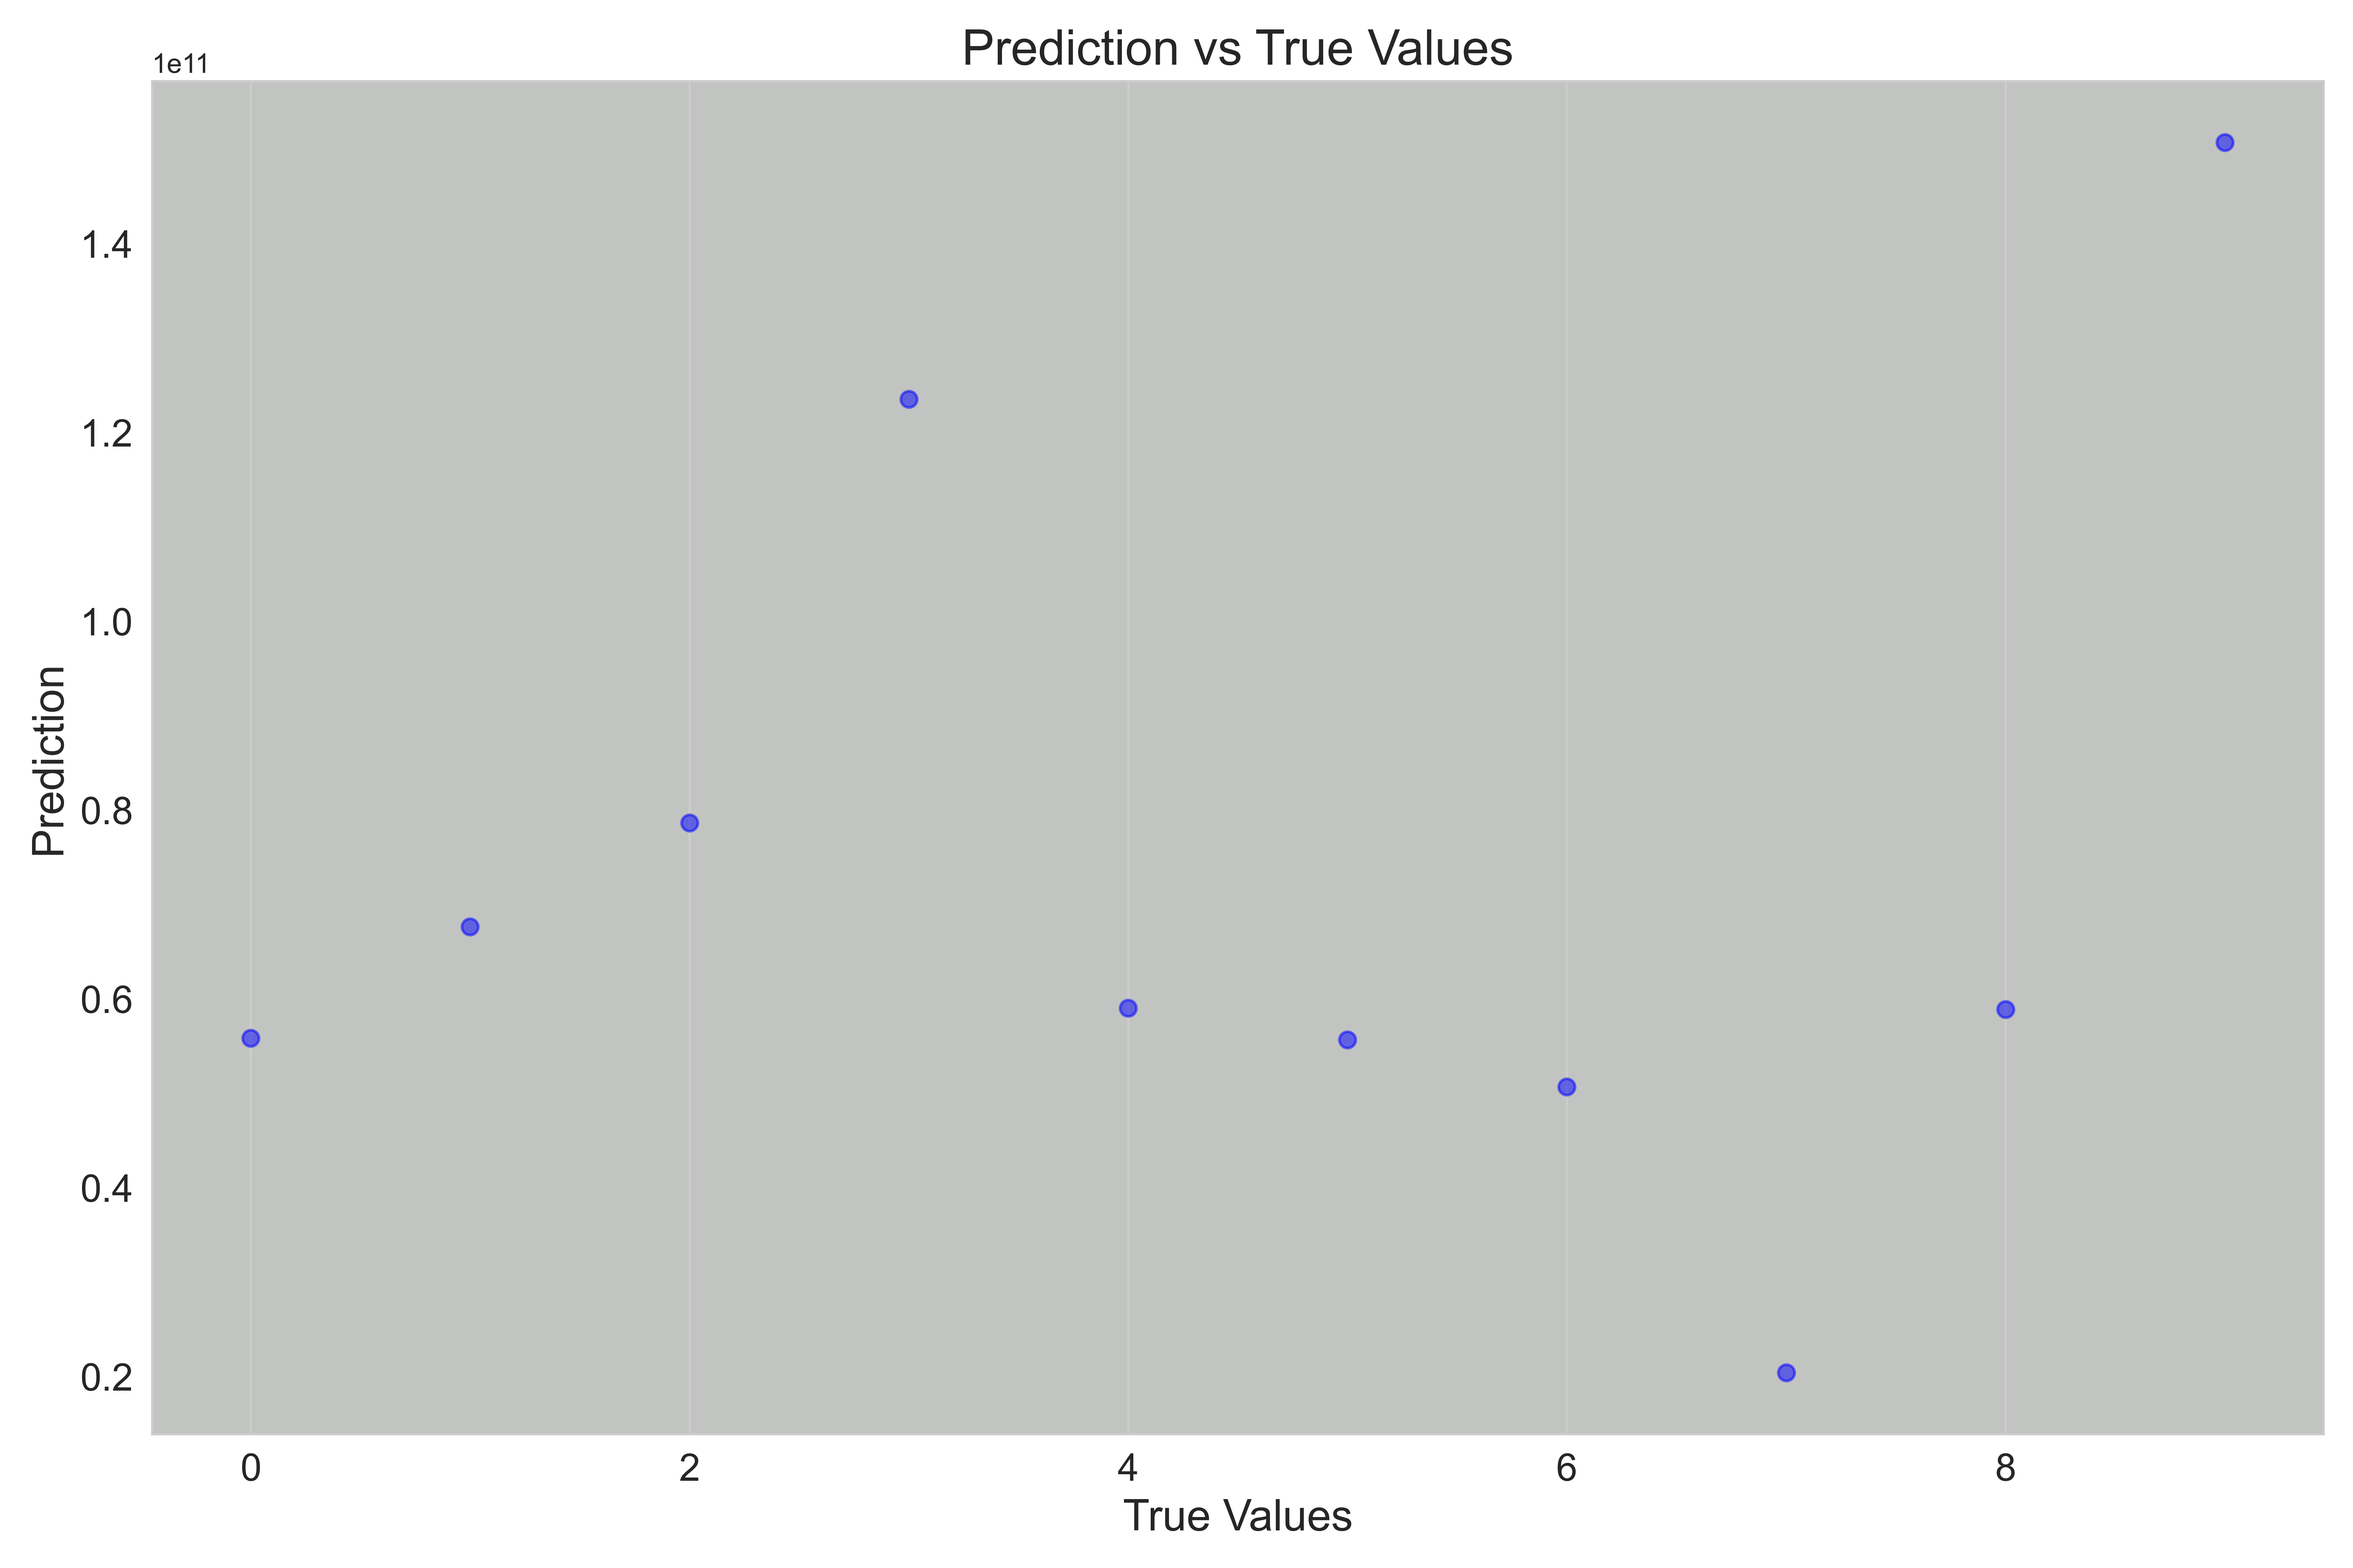
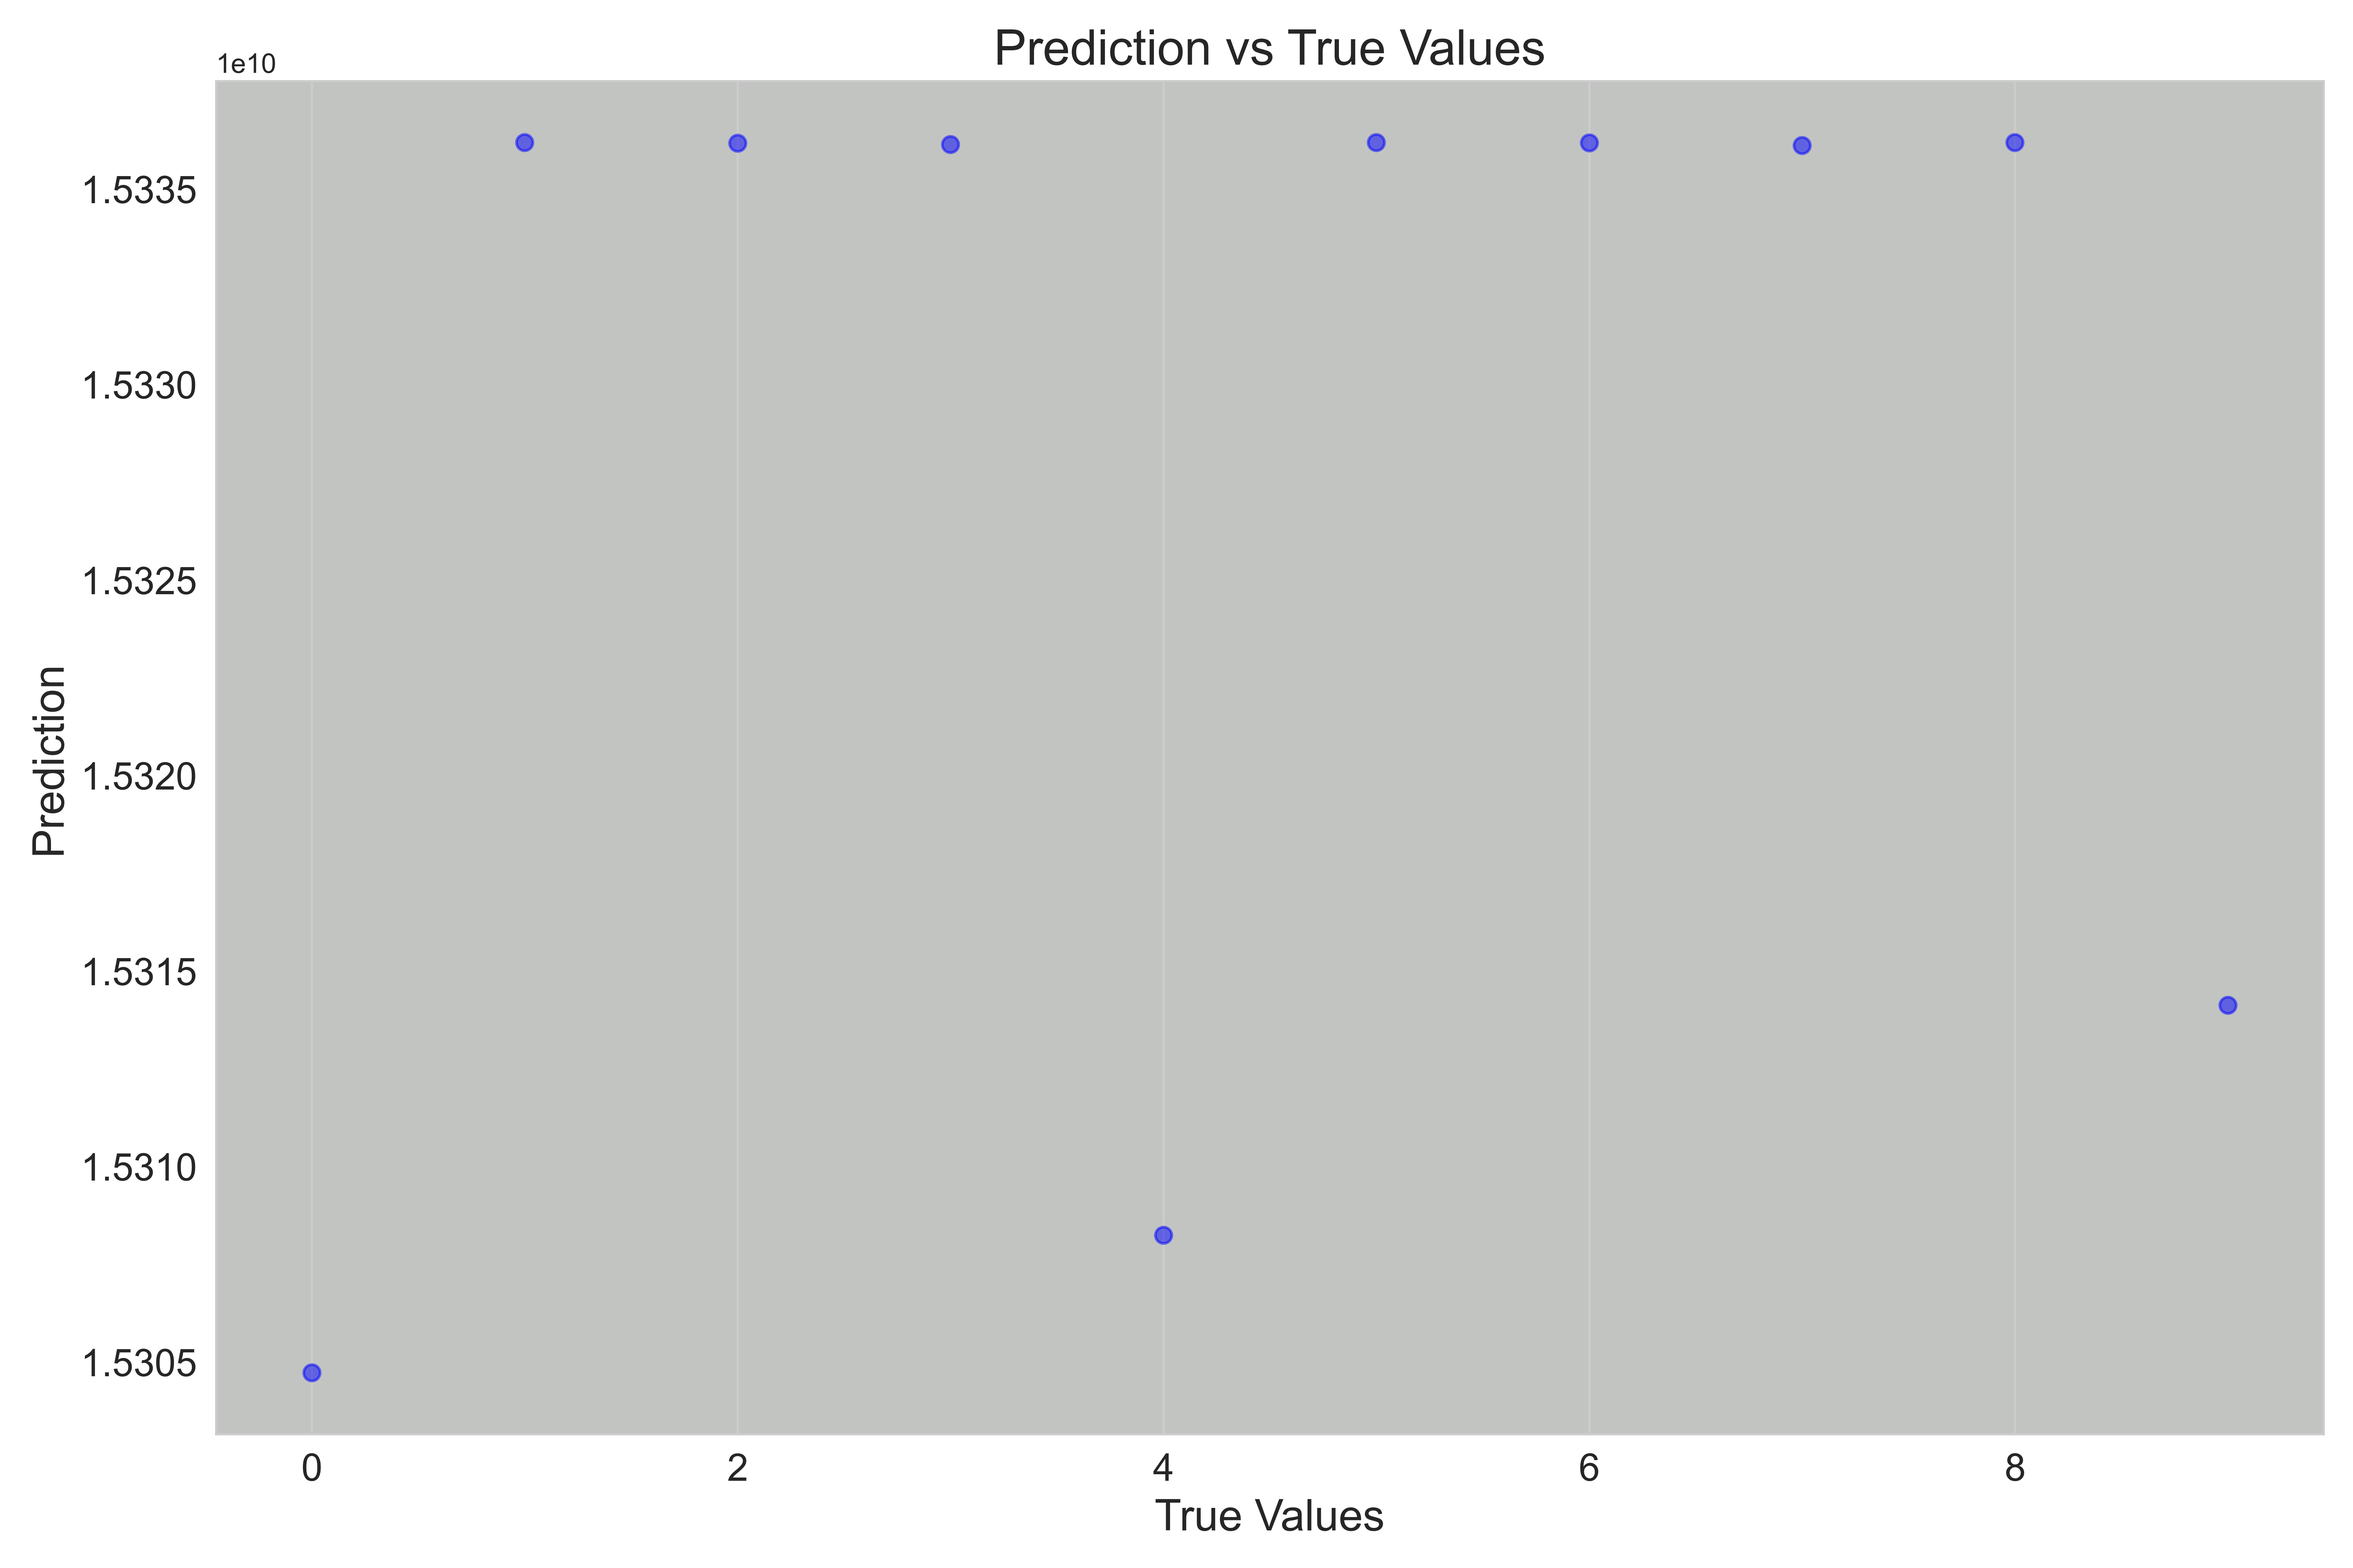
mise en forme

Changed region(s): [[0.0312, 0.0312, 0.0938, 0.9375], [0.4062, 0.0, 0.6562, 0.0625], [0.4688, 0.9375, 0.5938, 1.0]]

diff --git a/04-Project_walmart_model_optuna.py b/04-Project_walmart_model_optuna.py
@@ -350,7 +350,7 @@ def objective(trial):
     with mlflow.start_run(nested=True):
         params = {
             "alpha": trial.suggest_float("alpha", 1e-8, 5, log=True),
-            "model_type": trial.suggest_categorical("model_type", ["Ridge"])# ["Linear", "Ridge", "Lasso"])
+            "model_type": trial.suggest_categorical("model_type", ["Lasso"])# ["Linear", "Ridge", "Lasso"])
             }
         
         pipeline = create_model(params)
